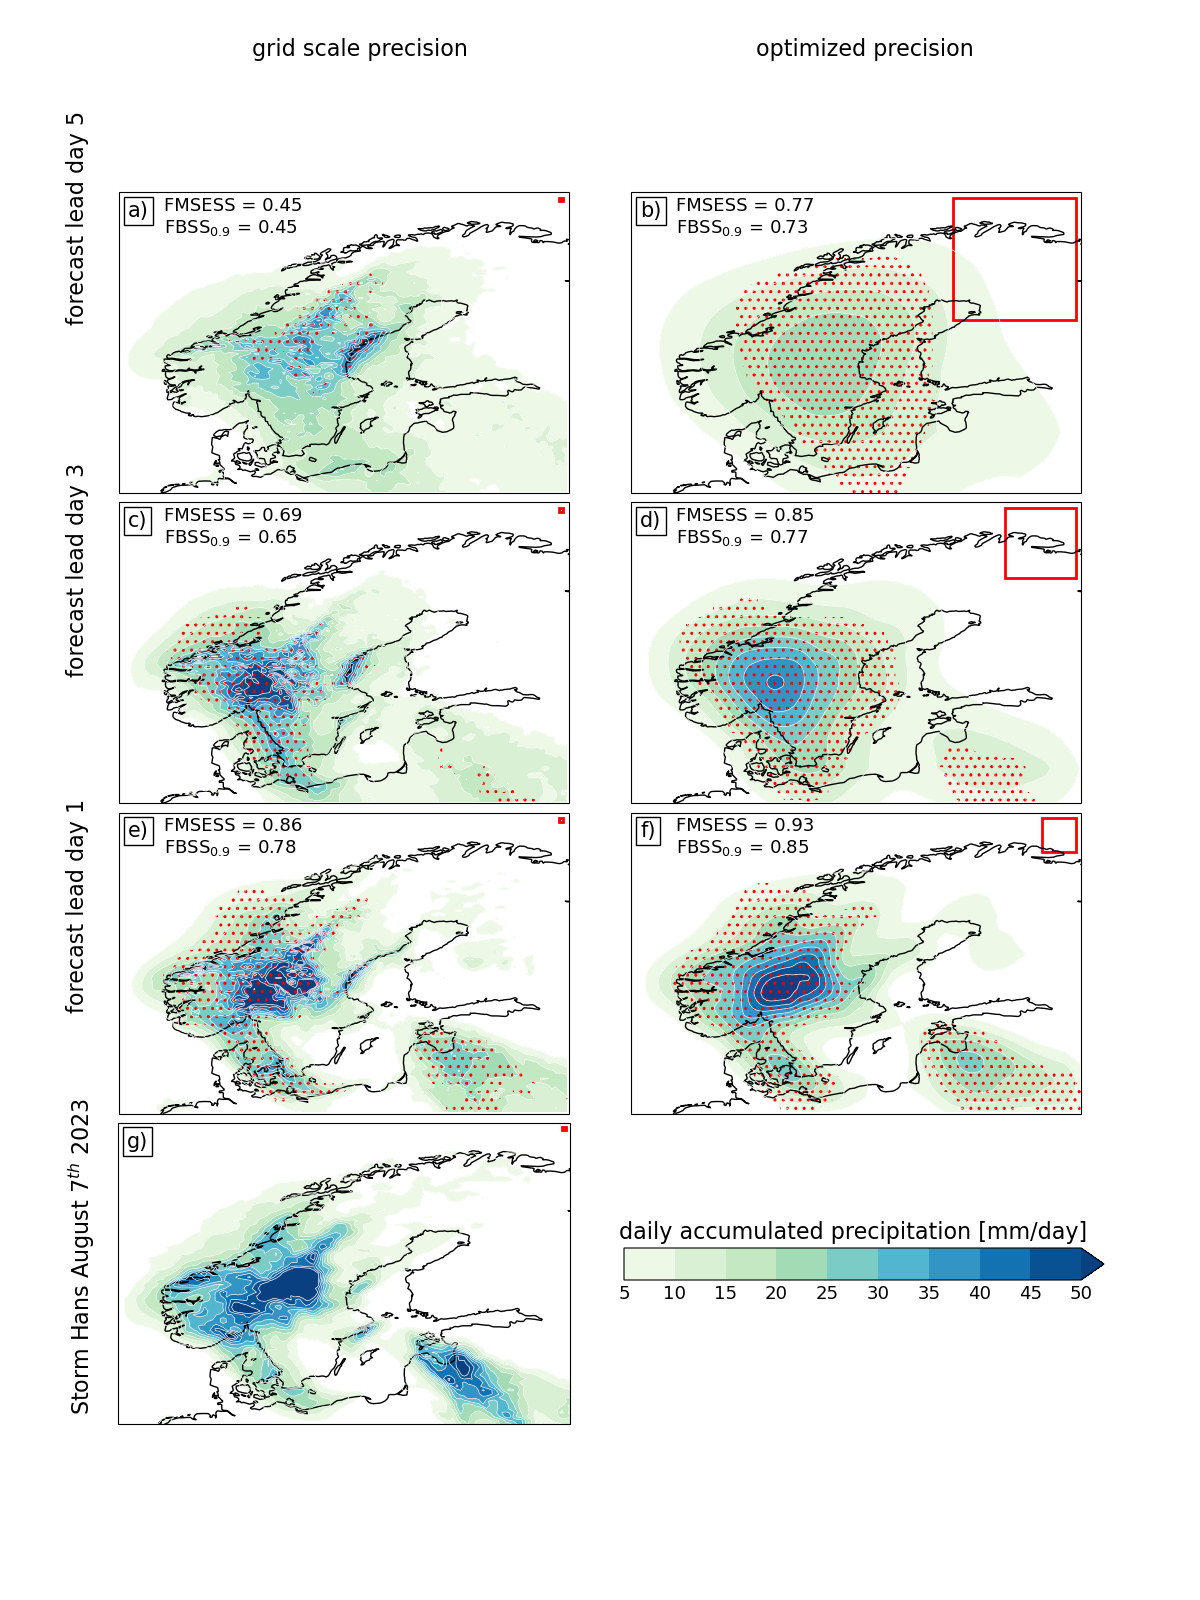
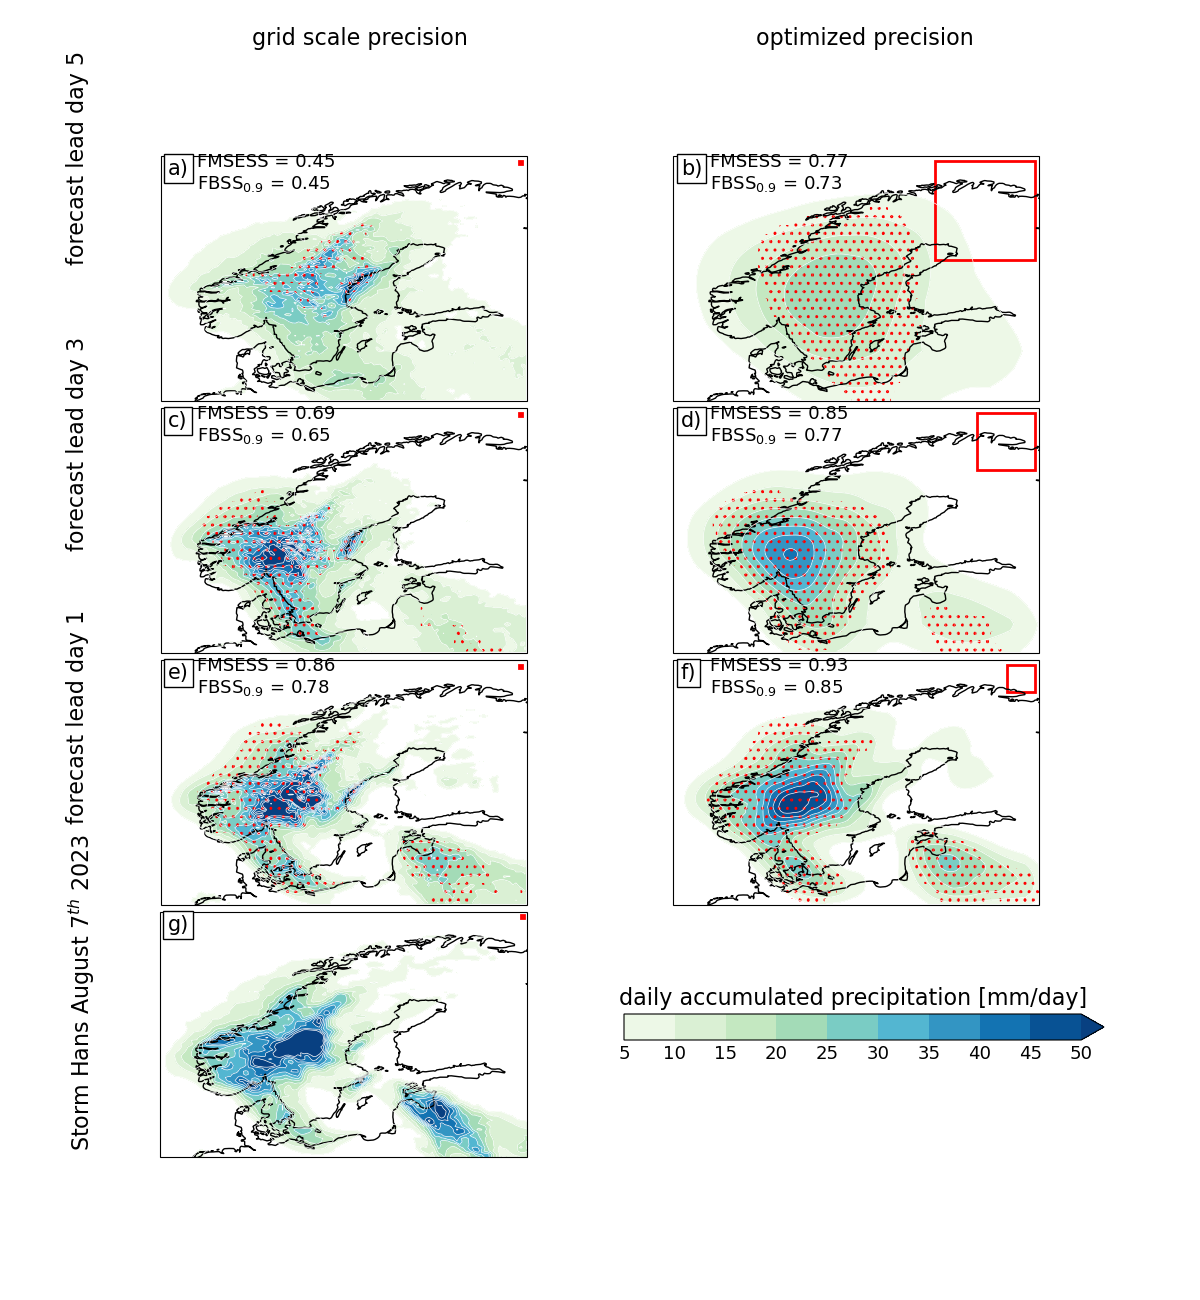
update

diff --git a/code/plot/test.py b/code/plot/test.py
@@ -85,7 +85,7 @@ da7[variable] = da7[variable]*1000
 fontsize = 11
 clevs    = np.arange(5,55,5)
 cmap     = 'GnBu'
-figsize  = np.array([12,16])
+figsize  = np.array([12,13])
 fig,ax   = plt.subplots(nrows=4,ncols=2,figsize=(figsize[0],figsize[1]),subplot_kw={'projection': ccrs.PlateCarree(central_longitude=0.0)})
 ax       = ax.ravel()
 
